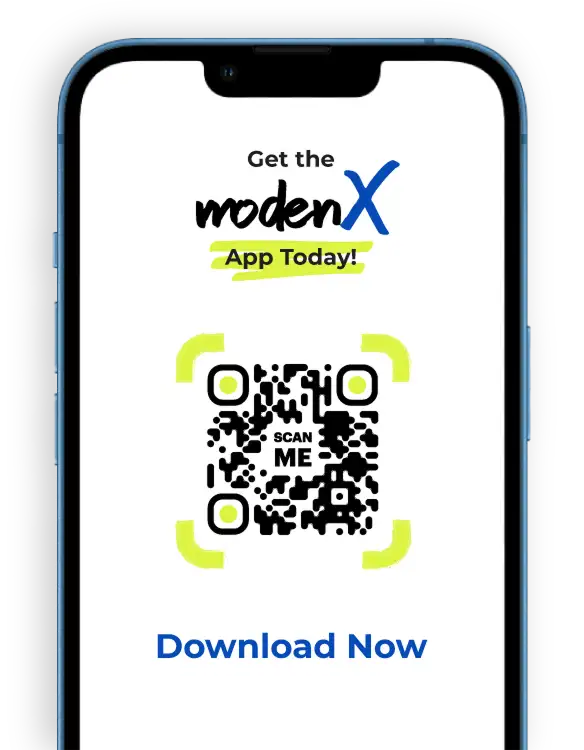
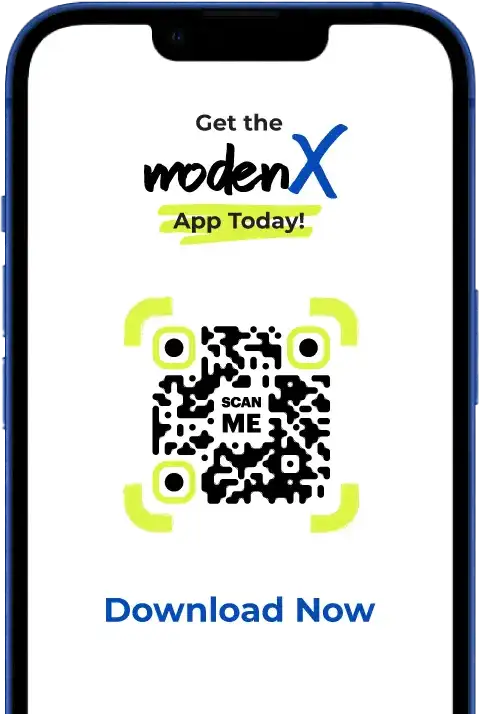
Working on feedback

diff --git a/assets/scss/components/_landing-page.scss b/assets/scss/components/_landing-page.scss
@@ -520,12 +520,16 @@
             flex-wrap: wrap;
             align-items: flex-end;
             width: 400px;
-            height: calc(100% - 72px);
+            height: calc(100% - 40px);
             position: relative;
-            margin-top: -109px;
+            margin-top: -60px;
+
+            @media (max-width: 1200px) {
+                width: 340px;
+            }
 
             @media (max-width: 991px) {
-                width: 330px;
+                width: 300px;
             }
 
             @media (max-width: 767px) {
@@ -634,7 +638,7 @@
         }
 
         picture {
-            max-width: 360px;
+            max-width: 380px;
             display: flex;
         }
     }
@@ -2005,9 +2009,9 @@
 
     &.insight-section {
         .img-stroke8 {
-            top: -16px;
-            left: -29px;
-            width: 190px;
+            top: -22px;
+            left: -45px;
+            width: 210px;
             height: 100px;
 
             @media only screen and (max-width: 1024px) {

diff --git a/assets/css/style.css b/assets/css/style.css
@@ -2769,13 +2769,18 @@ footer .footer-mobile {
   flex-wrap: wrap;
   align-items: flex-end;
   width: 400px;
-  height: calc(100% - 72px);
+  height: calc(100% - 40px);
   position: relative;
-  margin-top: -109px;
+  margin-top: -60px;
+}
+@media (max-width: 1200px) {
+  .blue-block-section.blue-device-section .img-dv {
+    width: 340px;
+  }
 }
 @media (max-width: 991px) {
   .blue-block-section.blue-device-section .img-dv {
-    width: 330px;
+    width: 300px;
   }
 }
 @media (max-width: 767px) {
@@ -2867,7 +2872,7 @@ footer .footer-mobile {
   justify-content: center;
 }
 .blue-block-section.blue-apply-section picture {
-  max-width: 360px;
+  max-width: 380px;
   display: flex;
 }
 .blue-block-section .btn-dv:hover {
@@ -4149,9 +4154,9 @@ footer .footer-mobile {
   }
 }
 .update-section.insight-section .img-stroke8 {
-  top: -16px;
-  left: -29px;
-  width: 190px;
+  top: -22px;
+  left: -45px;
+  width: 210px;
   height: 100px;
 }
 @media only screen and (max-width: 1024px) {
